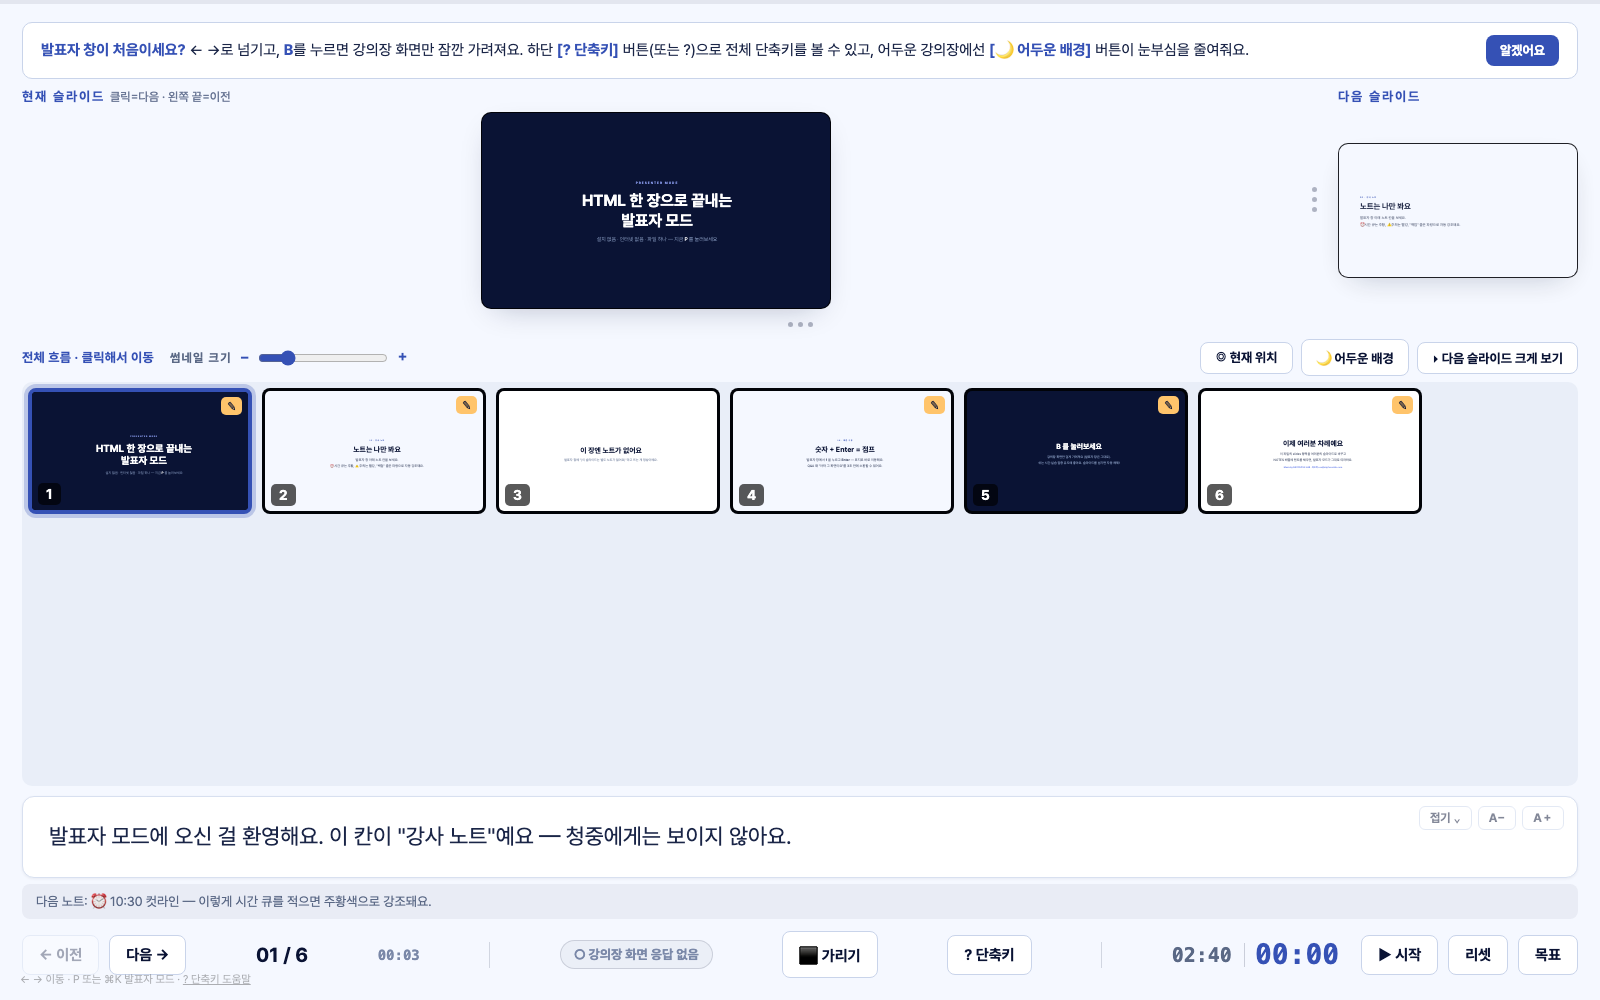
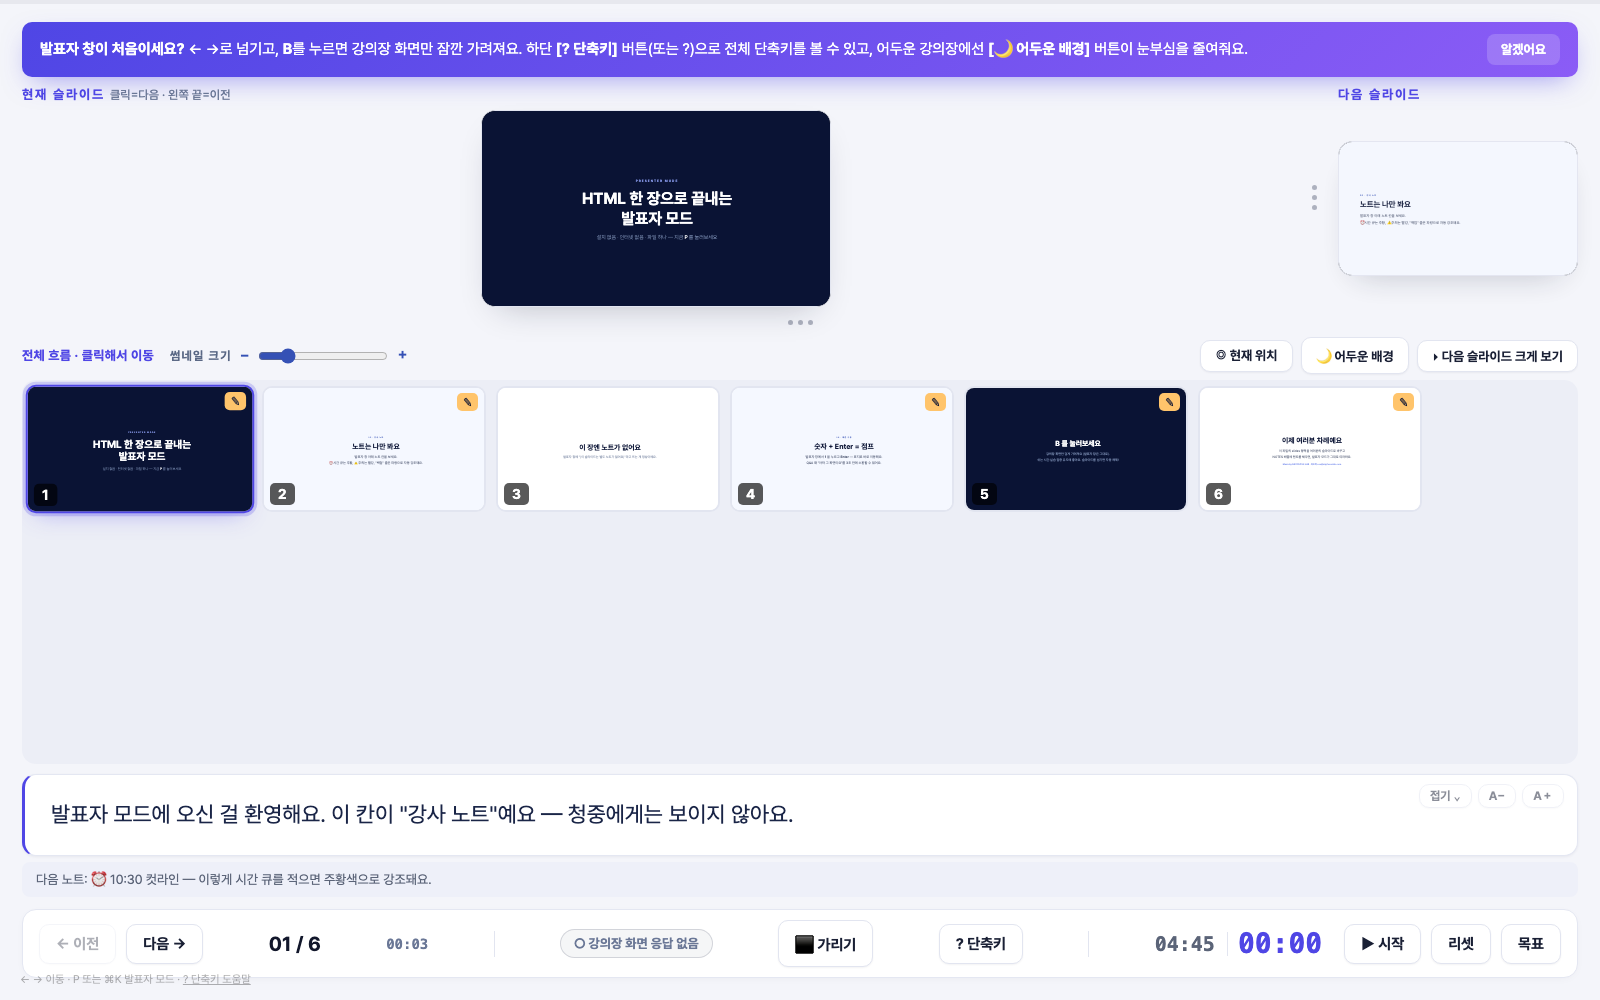
v4 트렌디 스킨: 인디고→바이올렛 팔레트 + 마이크로 인터랙션 10종 + 새 스크린샷

diff --git a/index.html b/index.html
@@ -250,6 +250,72 @@
   #pTooSmall{position:fixed;top:8px;left:50%;transform:translateX(-50%);background:#C2402A;color:#fff;padding:6px 14px;border-radius:999px;font-size:12.5px;font-weight:700;z-index:50;display:none;font-family:'Pretendard','Apple SD Gothic Neo','Malgun Gothic',sans-serif;}
   body.pBlackOn #pCurClick .pStage{outline:3px solid #FFC46B;}
   .nav button{background:none;border:none;color:inherit;font:inherit;cursor:pointer;padding:0;text-decoration:underline;}
+
+  /* ═══ v4 트렌디 스킨 (2026-07-12) — 인디고→바이올렛 악센트 · 뉴트럴 배경 · 마이크로 인터랙션 ═══ */
+  /* [v4-1] 팔레트: 다크 = 딥 인디고 나이트 */
+  body.presenter-mode{background:#0D0F1E;}
+  #presenterRoot{background:#0D0F1E;}
+  .pTag{color:#8A93F8;}
+  /* [v4-2] 컨트롤바 = 플로팅 독 카드 */
+  .pControls{background:rgba(255,255,255,.04);border:1px solid rgba(255,255,255,.07);border-radius:14px;padding:10px 16px;}
+  /* [v4-3] 버튼 마이크로 인터랙션: 호버 lift + 그림자 + 부드러운 전환 */
+  .pTimer button,.pNav button,.pCtlBtn,.pToggleBtn,.pNoteSize button{background:#1A1E36;border:1px solid rgba(255,255,255,.1);border-radius:10px;transition:background .15s ease,transform .15s ease,box-shadow .15s ease;}
+  .pTimer button:hover,.pNav button:hover,.pCtlBtn:hover,.pToggleBtn:hover,.pNoteSize button:hover{background:#232848;transform:translateY(-1px);box-shadow:0 4px 12px -4px rgba(0,0,0,.45);}
+  .pNav button:disabled{transform:none;box-shadow:none;}
+  /* [v4-4] 현재 썸네일 = 모던 링 + 살짝 확대 / [v4-5] 썸네일 호버 리프트 */
+  .pThumb{border-radius:10px;border:2px solid rgba(255,255,255,.1);transition:transform .15s ease,box-shadow .15s ease,border-color .15s ease;}
+  .pThumb:hover{transform:translateY(-2px);border-color:rgba(168,85,247,.55);box-shadow:0 8px 18px -8px rgba(0,0,0,.5);}
+  .pThumb.pThumbCurrent{border-width:2px;border-color:#6366F1;box-shadow:0 0 0 3px rgba(99,102,241,.35),0 10px 24px -10px rgba(99,102,241,.55);transform:scale(1.02);}
+  /* [v4-6] 진행률 바: 그라데이션 + 글로우 */
+  #pProgressFill{background:linear-gradient(90deg,#6366F1,#A855F7);box-shadow:0 0 10px rgba(139,92,246,.55);}
+  /* [v4-7] 온보딩 = 그라데이션 카드 */
+  #pOnboard{background:linear-gradient(135deg,#4F46E5,#8B5CF6);border:none;color:#fff;box-shadow:0 10px 28px -10px rgba(79,70,229,.55);}
+  #pOnboard strong{color:#fff;}
+  #pOnboard button{background:rgba(255,255,255,.18);}
+  #pOnboard button:hover{background:rgba(255,255,255,.3);}
+  /* [v4-8] 노트 카드: 좌측 악센트 바 + 라운드 업 */
+  .pNotes{background:#151932;border-radius:14px;border-left:3px solid #6366F1;}
+  .pNextNote{background:rgba(255,255,255,.05);}
+  /* [v4-9] 타이머 상태색 현대화: 러닝 = 에메랄드 그라데이션 */
+  .pTimerDisplay{color:#8A93F8;}
+  .pTimerDisplay.running{color:#34D399;}
+  #pTimerToggle.on{background:linear-gradient(135deg,#059669,#10B981);border:none;}
+  .pConnChip.ok{color:#34D399;border-color:rgba(52,211,153,.35);}
+  .pStage{border-radius:14px;}
+  .pFilmstrip{border-radius:14px;}
+  /* [v4-10] 커스텀 스크롤바: 얇고 라운드 */
+  .pFilmstrip::-webkit-scrollbar,.pNotes::-webkit-scrollbar,#presenterRoot::-webkit-scrollbar{width:8px;height:8px;}
+  .pFilmstrip::-webkit-scrollbar-thumb,.pNotes::-webkit-scrollbar-thumb,#presenterRoot::-webkit-scrollbar-thumb{background:rgba(138,147,248,.3);border-radius:99px;}
+  .pFilmstrip::-webkit-scrollbar-thumb:hover,.pNotes::-webkit-scrollbar-thumb:hover{background:rgba(138,147,248,.55);}
+  .pFilmstrip::-webkit-scrollbar-track,.pNotes::-webkit-scrollbar-track,#presenterRoot::-webkit-scrollbar-track{background:transparent;}
+  /* ── v4 라이트 변형 ── */
+  body.presenter-mode.pLight{background:#F4F5FA;}
+  body.pLight #presenterRoot{background:#F4F5FA;color:#12172B;}
+  body.pLight .pTag{color:#4F46E5;}
+  body.pLight .pControls{background:#fff;border-color:#E4E7F2;box-shadow:0 2px 12px -6px rgba(18,23,43,.1);}
+  body.pLight .pTimer button,body.pLight .pNav button,body.pLight .pCtlBtn,body.pLight .pToggleBtn,body.pLight .pNoteSize button{background:#fff;border-color:#E2E5F0;color:#1A2035;box-shadow:0 1px 2px rgba(18,23,43,.05);}
+  body.pLight .pTimer button:hover,body.pLight .pNav button:hover,body.pLight .pCtlBtn:hover,body.pLight .pToggleBtn:hover,body.pLight .pNoteSize button:hover{background:#F6F7FE;box-shadow:0 4px 12px -4px rgba(79,70,229,.18);}
+  body.pLight .pThumb{border-color:#E2E5F0;background:#fff;}
+  body.pLight .pThumb:hover{border-color:rgba(147,51,234,.45);box-shadow:0 8px 18px -8px rgba(18,23,43,.2);}
+  body.pLight .pThumb.pThumbCurrent{border-color:#4F46E5;box-shadow:0 0 0 3px rgba(79,70,229,.22),0 10px 22px -10px rgba(79,70,229,.4);}
+  body.pLight #pProgress{background:rgba(18,23,43,.06);}
+  body.pLight #pProgressFill{background:linear-gradient(90deg,#4F46E5,#9333EA);box-shadow:none;}
+  body.pLight #pOnboard{background:linear-gradient(135deg,#4F46E5,#8B5CF6);color:#fff;border:none;}
+  body.pLight #pOnboard strong{color:#fff;}
+  body.pLight .pNotes{background:#fff;border:1px solid #E4E7F2;border-left:3px solid #4F46E5;box-shadow:0 1px 3px rgba(18,23,43,.06);}
+  body.pLight .pNextNote{background:#EEF0F9;color:#5B6478;}
+  body.pLight .pTimerDisplay{color:#4F46E5;}
+  body.pLight .pTimerDisplay.running{color:#059669;}
+  body.pLight .pTimerRemain{background:#EEF0F9;color:#3A4257;}
+  body.pLight .pConnChip.ok{color:#059669;border-color:rgba(5,150,105,.35);}
+  body.pLight .pCtrlSep{background:#E2E5F0;}
+  body.pLight .pClock{color:#5B6478;border-right-color:#E2E5F0;}
+  body.pLight .pCounter{color:#12172B;}
+  body.pLight .pStage{border-color:#E2E5F0;box-shadow:0 14px 34px -18px rgba(18,23,43,.3);}
+  body.pLight .pFilmstrip{background:#ECEEF6;}
+  body.pLight .pFilmstrip::-webkit-scrollbar-thumb,body.pLight .pNotes::-webkit-scrollbar-thumb{background:rgba(79,70,229,.25);}
+  body.pLight .pFilmstrip::-webkit-scrollbar-thumb:hover,body.pLight .pNotes::-webkit-scrollbar-thumb:hover{background:rgba(79,70,229,.45);}
+
 </style></head>
 <body><div class="deck"><div class="deck-inner" id="inner">
 